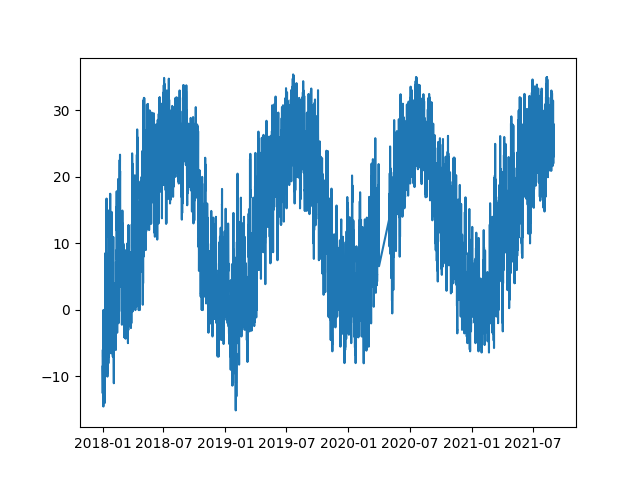
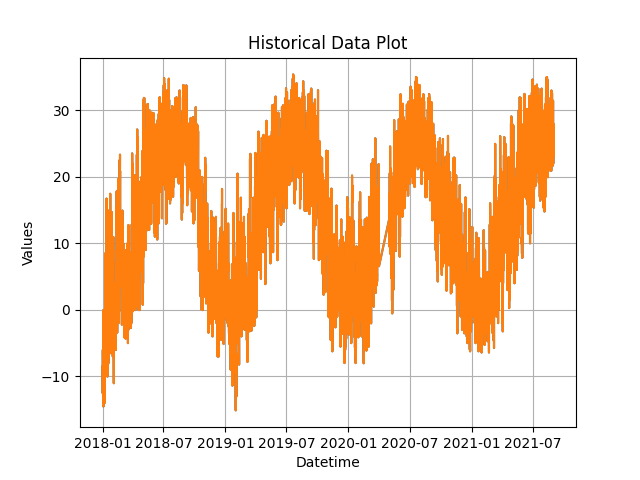
add some fix

diff --git a/djangosite/templates/analysis/content.html b/djangosite/templates/analysis/content.html
@@ -1,5 +1,2 @@
-{% load static %}
-
-
-    <img class="img-fluid" src={{file_image}}  alt="graphic"/>
+<img class="img-fluid" src={{ file_image }}  alt="graphic"/>
 

diff --git a/djangosite/metrics/services.py b/djangosite/metrics/services.py
@@ -10,7 +10,7 @@ from .model_for_classification.classify_data import classify_data
 matplotlib.use('Qt5Agg')
 OptionalDate = datetime.date | None
 
-file_image = "D:/UNIVERSITY/5 course/LESSONS 1/IoT systems/KNT-213m-2023-2-lab-1/djangosite/metrics/image_measurement.png"
+file_image = "image_measurement.png"
 
 
 class TimestampMetrics(TypedDict):
@@ -45,12 +45,15 @@ def generate_metrics_plot(l: int, t: int, s: OptionalDate = None, e: OptionalDat
         values = tuple(map(lambda m: m['value'], metrix))
     else:
         values = tuple(map(lambda m: float(m['value']), metrix))
-    plt.useTkAgg = False
 
-    plt.plot(datetimes, values)
+    plt.useTkAgg = False
     plt.xlabel('Datetime')
     plt.ylabel('Values')
     plt.title('Historical Data Plot')
+    plt.grid(True)
+    plt.plot(datetimes, values)
+    plt.savefig("./media/" + file_image, format='png')
+
     return file_image
 
 

diff --git a/djangosite/metrics/views.py b/djangosite/metrics/views.py
@@ -11,6 +11,7 @@ from django.db import transaction
 from .services import generate_metrics_plot, classify_weather_by
 from django.db.models import Min, Max
 import numpy as np
+from django.conf import settings
 
 
 def main_index(request):
@@ -53,8 +54,8 @@ def analysis_index(request):
     selected_date_to = request.GET.get("date_to", current_date)
 
     if selected_measurement and selected_location:
-        file_image = generate_metrics_plot(selected_location, selected_measurement,
-                                           selected_date_from, selected_date_to)
+        file_image = settings.MEDIA_ROOT + "\\"+generate_metrics_plot(selected_location, selected_measurement,
+                                                                      selected_date_from, selected_date_to)
     else:
         file_image = None
 

diff --git a/djangosite/djangosite/urls.py b/djangosite/djangosite/urls.py
@@ -13,5 +13,6 @@ urlpatterns = [
     path("analysis/", views.analysis_index, name='analysis_index'),
     path("classification/", views.classification_index,
          name='classification_index'),
-] + static(settings.STATIC_URL, document_root=settings.STATIC_ROOT)
+] + static(settings.STATIC_URL, document_root=settings.STATIC_ROOT)\
+    + static(settings.MEDIA_URL, document_root=settings.MEDIA_ROOT)
 urlpatterns += router.urls

diff --git a/djangosite/djangosite/settings.py b/djangosite/djangosite/settings.py
@@ -121,6 +121,9 @@ USE_TZ = False
 # Static files (CSS, JavaScript, Images)
 # https://docs.djangoproject.com/en/4.2/howto/static-files/
 
+MEDIA_URL = '/media/'
+MEDIA_ROOT = os.path.join(BASE_DIR, 'media/')
+
 STATIC_URL = '/static/'
 STATIC_ROOT = os.path.join(BASE_DIR, 'static')
 
